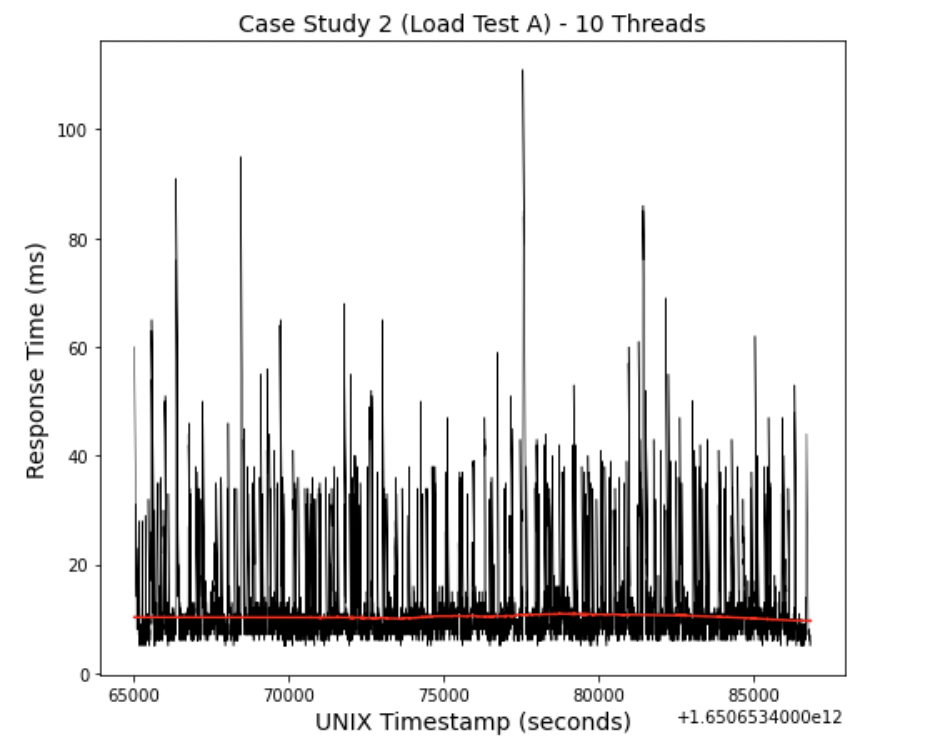
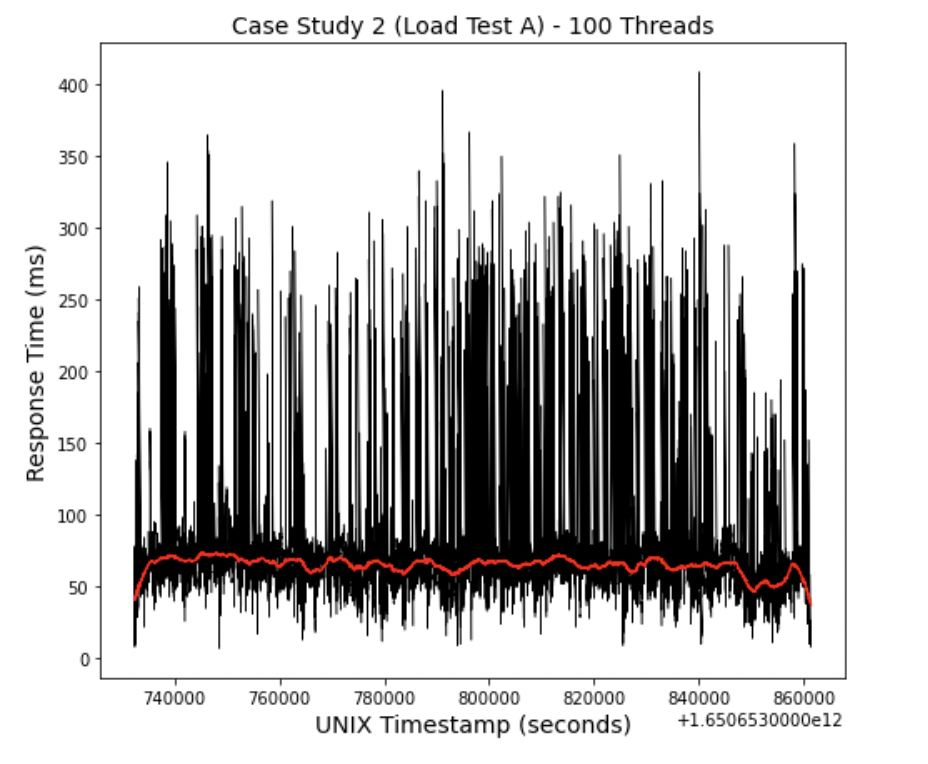
Perf testing for cs01

diff --git a/report/chapters/system-design-overview.tex b/report/chapters/system-design-overview.tex
@@ -14,15 +14,15 @@ In order to demonstrate various performance engineering practices in the context
 
 \section{Case Studies}
 
-In this project, two separate web applications have been designed to model the same system described above, each employing a variety of common design patterns. The applications follow microservice architecture, with the intermediary and cinema services all being self-contained, loosely-coupled and independently deployable. Taking each application to be a \textit{case study}, the next chapter provides descriptions of the system design, implementation specifics, design pattern choices, and the associated performance implications. In a larger scale production system, it is likely that each independent cinema would in turn comprise a number of microservices to serve more specific purposes, but to avoid over-complicating the architecture in this project, cinemas are designed to be single entities.
+In this project, two separate web applications have been designed to model the same system described above, each employing a variety of common design patterns. The applications follow microservice architecture, with the intermediary and cinema services all being self-contained, loosely-coupled and independently deployable. Taking each application to be a \textit{case study}, the next chapter provides descriptions of the system design, implementation specifics, design pattern choices, and the associated performance implications. In a larger scale production system, it is likely that each independent cinema would in turn comprise a number of microservices to serve more specific purposes. However, in order to avoid over-complicating the architecture in this project, cinemas are designed to be single entities.
 
 \subsection{Communication Styles}
 
-When migrating from monolithic applications to microservices, decisions regarding communication mechanisms are vital, since a number of internal services must efficiently interact with each other as well as the clients, in order to perform well in a distributed environment. Managing data from responses, and aggregating results from various services also becomes a part of the equation. The two case studies in this project illustrate the two most common communication style patterns, namely HTTP \footnote{\url{https://developer.mozilla.org/en-US/docs/Web/HTTP}} request/response using APIs (typically RESTful \footnote{\url{https://en.wikipedia.org/wiki/Representational_state_transfer}}) in case study 1, and asynchronous messaging following a protocol like AMQP \footnote{\url{https://en.wikipedia.org/wiki/Advanced_Message_Queuing_Protocol}} in case study 2. Broadly speaking, the first style uses a synchronous protocol (HTTP), where the client awaits a response from services after sending a request. Then, as the name suggests, the second style uses an asynchronous protocol (AMQP) that uses message queues, and doesn't wait for responses. These have been separated from demonstration, but in practice, microservice-based applications tend to employ a combination of synchronous and asynchronous communication styles (including deferred synchronous and asynchronous callbacks) depending on the use case. Microservices often face the issue of "chattiness", due to excessive inter-service communication leading to performance degradation, which is a point to keep in mind when developing microservices. The aim is to enforce the autonomy of microservices during integration, and avoid anti-patterns such as a distributed monolith, where services end up being tightly coupled.
+When migrating from monolithic applications to microservices, decisions regarding communication mechanisms are vital, since a number of internal services must efficiently interact with each other as well as the clients, in order to perform well in a distributed environment. Managing data from responses, and aggregating results from various services also becomes a part of the equation. The two case studies in this project illustrate the two most common communication style patterns, namely HTTP \footnote{\url{https://developer.mozilla.org/en-US/docs/Web/HTTP}} request/response using APIs (typically RESTful \footnote{\url{https://en.wikipedia.org/wiki/Representational_state_transfer}}) in case study 1, and asynchronous messaging in case study 2. Broadly speaking, the first style uses a synchronous protocol (HTTP), where the client awaits a response from services after sending a request. Then, as the name suggests, the second style uses an asynchronous protocol (AMQP \footnote{\url{https://en.wikipedia.org/wiki/Advanced_Message_Queuing_Protocol}}) that uses message queues and doesn't wait for responses. These have been separated from demonstration, but in practice, microservice-based applications tend to employ a combination of synchronous and asynchronous communication styles (including deferred synchronous and asynchronous callbacks) depending on the use case. Microservices often face the issue of "chattiness", due to excessive inter-service communication leading to performance degradation, which is a point to keep in mind when developing microservices. The aim is to enforce the autonomy of microservices during integration, and avoid anti-patterns such as a distributed monolith, where separate services end up being interdependent and tightly coupled.
 
 \subsection{Choice of Tools}
 
-One of the main benefits of microservices is the freedom of choice regarding the programming language used for development, since any suitable language may be used as long the service exposes an API \footnote{\url{https://www.mulesoft.com/resources/api/what-is-an-api}} adhering to known standards (typically HTTP and REST). The API is then used for inter-service communication. For the case studies in this project, Java and Spring \footnote{\url{https://spring.io}} are chosen over other languages and frameworks primarily due to the dominance of Java in enterprise-level software, as well as the feature richness of Spring. Moreover, as shown in a 2017 study by Pereira et al. \cite{pereira17}, Java ranks much higher in terms of time, memory and energy efficiency; which need to be considered when talking about system performance; compared to other popular languages such as Python or TypeScript/JavaScript. The Spring framework in Java offers a plethora of integrations and abstractions to implement microservice and cloud-related design patterns, through projects such as Spring Boot, Spring Data, Spring Cloud and Spring AMQP, to name a few that are used in the case study web applications here. Apache Maven \footnote{\url{https://maven.apache.org}} is the tool used for dependency management for Java.
+One of the main benefits of microservices is the freedom of choice regarding the programming language used for development, since any suitable language may be used as long the service exposes an API \footnote{\url{https://www.mulesoft.com/resources/api/what-is-an-api}} adhering to known standards (typically HTTP and REST). The API is then used for inter-service communication. For the case studies in this project, Java and Spring \footnote{\url{https://spring.io}} are chosen over other languages and frameworks primarily due to the dominance of Java in enterprise-level software, as well as the feature richness of Spring. Moreover, as shown in a 2017 study by Pereira et al. \cite{pereira17}, Java ranks much higher in terms of time, memory and energy efficiency; which need to be considered when talking about system performance; compared to other popular languages such as Python or TypeScript/JavaScript. The Spring framework in Java offers a plethora of integrations and abstractions to implement microservice and cloud-related design patterns, through projects such as Spring Boot, Spring Data, Spring Cloud and Spring AMQP, to name a few that are used in the case study web applications in this project Apache Maven \footnote{\url{https://maven.apache.org}} is used for dependency management for Java.
 
 Each web application exposes APIs for its microservices, whose endpoints can be invoked with HTTP requests like GET and POST. In commercial systems, a website (UI client) would invoke the backend API to perform actions, but for our case studies, it is sufficient to use a tool such as Postman \footnote{\url{https://www.postman.com}} or VS Code's REST Client \footnote{\url{https://marketplace.visualstudio.com/items?itemName=humao.rest-client}} to demonstrate the API functionalities locally.
 
@@ -32,4 +32,4 @@ In line with industry standards, Docker \footnote{\url{https://www.docker.com}} 
 
 \section{Evaluation}
 
-In order to evaluate the case studies, a three-pronged approach can be taken: performance modelling, manual API testing, and performance testing using Apache JMeter \footnote{\url{https://jmeter.apache.org/}}. Since standardisation is essential for performance modelling, the Open Management Group's (OMG) \textit{Unified Modelling Language (UML)} is used as the common design language for sequence diagrams. \textit{Use cases} in UML and the \textit{scenarios} that describe them are the key focus of the software performance engineering modelling process. Such scenarios show the interactions between objects and the flow of messages between them. After modelling, VS Code's REST Client is used to manually test the APIs, to demonstrate all functional endpoints and expected results. The tool also provides the time it took to process a request. Finally, more rigorous performance testing of APIs is carried out with the help of JMeter, an industry-leading open source load testing tool.
+In order to evaluate the case studies, a three-pronged approach can be taken: performance modelling, manual API testing, and performance testing using Apache JMeter \footnote{\url{https://jmeter.apache.org/}}. Since standardisation is essential for performance modelling, the Open Management Group's (OMG) \textit{Unified Modelling Language (UML)} is used as the common design language for sequence diagrams. \textit{Use cases} in UML and the \textit{scenarios} that describe them are the key focus of the software performance engineering modelling process. Such scenarios show the interactions between objects and the flow of messages between them. After modelling, VS Code's REST Client is used to manually test the APIs, to demonstrate all functional endpoints and expected results. The tool also provides the time taken by the system to process a request. Finally, more rigorous performance testing of APIs is carried out with the help of JMeter, an industry-leading open source load testing tool. Performance testing is an umbrella term for various categories of tests such as load, stress, soak, spike or unit testing, each serving its own purpose. For evaluation here, the focus is on load testing - by simulating a number of virtual users using threads. The objectives of load testing include verifying system stability at light and heavy loads, expose performance flaws, confirming linearity of resource usage with respect to system load, bottleneck identification and analysis, determining system load handling capacity, and so on. A comparison can then be drawn between the two case studies, since they both implement the same system prototype. 

diff --git a/report/chapters/case-study-01.tex b/report/chapters/case-study-01.tex
@@ -262,7 +262,7 @@ From the sequence diagram, one can infer that the API gateway (and possibly the 
 
 \subsubsection{Manual API Testing}
 
-Using VS Code, one can measure the time taken by application to process a given HTTP request (stored under \code{src/main/resources/http/} in \code{api-gateway-service}). All calls are made to the client-facing API gateway on port 8099, which internal microservices also use to communicate with each other. The following endpoints have been tested to demonstrate the functionality of the web application:
+Using VS Code, the time taken by the application to process a given HTTP request (stored under \code{src/main/resources/http/} in \code{api-gateway-service}) was measured. All calls were made to the client-facing API gateway on port 8099, which internal microservices also use to communicate with each other. The following endpoints were tested to demonstrate the functionality of the web application:
 
 \begin{itemize}
   \item \code{/api/movie/list} (Fig. \ref{fig:cs01-manual-1}): As specified in the API gateway routing configurations, all requests to \code{/api} are forwarded to the Aggregator service using a logical address. Actual network locations are maintained only by the Eureka service registry, where all services must register on startup. A GET request to the \code{/api/movie/list} endpoint returns the list of movie showtimes (HTTP status 200 OK) from all active cinema services in 153 milliseconds (ms).
@@ -276,3 +276,76 @@ Using VS Code, one can measure the time taken by application to process a given 
 
 
 \subsubsection{Performance Testing}
+
+Finally, using CLI mode on Apache JMeter, the microservices can be load tested. Two test plans (A and B) have been designed: to fetch the list of movie showtimes from all cinemas, and then to make a ticket reservation at Cineworld. For both tests, the number of threads (users) is varied from 10 to 100 in intervals of 10, with a ramp-up period of 1 second, i.e. the time taken by JMeter to get all threads up and running. Importantly, all load testing is performed over 1000 iterations to improve reliability of measurements.
+
+\begin{figure}[H]
+  \centering
+  \subfigure[]{\includegraphics[width=0.45\linewidth]{./assets/images/case-studies/cs01-lta-1.png}}
+  \subfigure[]{\includegraphics[width=0.5\linewidth]{./assets/images/case-studies/cs01-lta-2.png}}
+  \caption{Load test A response times using (a) 10 threads and (b) 100 threads.}
+  \label{fig:cs01-lta-12}
+\end{figure}
+
+Load test A is focussed on the \code{/api/movie/list} endpoint, with the call to the aggregator service (via API gateway) returning the full list of movie showtimes from Cineworld, Dundrum and UCD cinemas. Fig. \ref{fig:cs01-lta-12} shows the response times measured at the two load extremities - 10 threads and 100 threads. Since response time measurements are known to be noisy, a Savitzky-Golay filter is used for data smoothing (plotted in red). The filter uses convolution, by applying the linear least squares method to fit successive subsets (chosen size = 10000) of adjacent data points with a low degree polynomial (chosen = 2). The results show that at a low workload of 10 threads, the response time is more or less constant at under 10 milliseconds (ms). There is a noticeable initial spike (70 ms +), likely due to the time taken to establish the database connection and populate the cache (cold start). The load is increased in intervals of 10 threads, up to the heavy load scenario of 100 threads. In that situation, the recorded response times jumped from 30-50 ms to about 100 ms (noticeable in the plot between timestamp 270000 and 280000). The variation in response time appears to increase significantly when using 100 threads, suggesting a need for system scaling to handle heavier workloads without performance degradation.
+
+\begin{figure}[H]
+  \centering
+  \includegraphics[width=0.6\linewidth]{./assets/images/case-studies/cs01-lta-3.png}
+  \caption{Count of 200 and 500 HTTP response codes during load test A at different load levels.}
+  \label{fig:cs01-lta-3}
+\end{figure}
+
+Fig. \ref{fig:cs01-lta-3} shows the response codes observed during load test A, 200 implying success and 500 signifying a server error. The circuit breaker timeout pattern employed in this case study prevents unresponsive server behaviour at heavy workloads, with fast failures reflected by the increase in proportion of errors (16 to 20\%) at load points such as 90 or 100 threads. This is preferable to the server taking 3 plus seconds to respond to client queries. However, steps must be taken to minimise the error probability - with the recommended approach being an increase in service capacity (horizontal or vertical scaling as appropriate) to handle heavier load.
+
+\begin{figure}[H]
+  \centering
+  \includegraphics[width=0.55\linewidth]{./assets/images/case-studies/cs01-lta-4.png}
+  \caption{Average response time vs number of threads in load test A.}
+  \label{fig:cs01-lta-4}
+\end{figure}
+
+One of the primary aims of load testing is to demonstrate the system resource usage being proportional to the applied load, which is a precondition for scalability. This is well illustrated by Fig. \ref{fig:cs01-lta-4}, with a strong positive Pearson correlation of 0.983 between average response time and the number of threads (load).
+
+For load test B, a similar strategy as above was applied to check the ticket reservation functionality of the application. The API endpoint \code{/cinema/cineworld/reservation/make} directly contacts the Cineworld service via the API gateway. Due to the reduced inter-service communication, the response times measured at both load extremities - 10 threads and 100 threads are more or less constant at about 3 ms and 10 ms respectively. As expected, making a reservation at a single cinema is considerably quicker than aggregating movie showtimes from all services. The listing below shows the ticket booking details used as the POST request body - identical to the payload used for manual API testing.
+
+\begin{lstlisting}[caption=Dummy payload for load test B POST request]
+  {
+    "clientName": "Jane Doe",
+    "clientEmail": "jane.doe@ucd.ie",
+    "movieId": "CNW001",
+    "date": "2022-04-15",
+    "showTime": "18:00",
+    "tickets": 2,
+    "ticketType": "Gold",
+    "amount": 30.00
+  }
+\end{lstlisting}
+
+
+\begin{figure}[H]
+  \centering
+  \subfigure[]{\includegraphics[width=0.45\linewidth]{./assets/images/case-studies/cs01-ltb-1.png}}
+  \subfigure[]{\includegraphics[width=0.45\linewidth]{./assets/images/case-studies/cs01-ltb-2.png}}
+  \caption{Load test B response times using (a) 10 threads and (b) 100 threads.}
+  \label{fig:cs01-ltb-12}
+\end{figure}
+
+Fig. \ref{fig:cs01-ltb-3} showing a 100\% success rate (all 201 Created HTTP response codes) at all load levels reaffirms the fact that relatively low response times for reservation requests allows the system to handle a load even greater than 100 threads per second before collapsing and requiring a scale-up.
+
+
+\begin{figure}[H]
+  \centering
+  \includegraphics[width=0.6\linewidth]{./assets/images/case-studies/cs01-ltb-3.png}
+  \caption{Count of HTTP response codes during load test B at different load levels.}
+  \label{fig:cs01-ltb-3}
+\end{figure}
+
+As seen before in load test A, the linearity of resource consumption with respect to system load in test B is confirmed by a Pearson correlation score of 0.985. The straight line plot in Fig. \ref{fig:cs01-ltb-4} shows a proportional increase in mean response time with load increasing gradually from 10 to 100 threads.
+
+\begin{figure}[H]
+  \centering
+  \includegraphics[width=0.55\linewidth]{./assets/images/case-studies/cs01-ltb-4.png}
+  \caption{Average response time vs number of threads in load test B.}
+  \label{fig:cs01-ltb-4}
+\end{figure}
